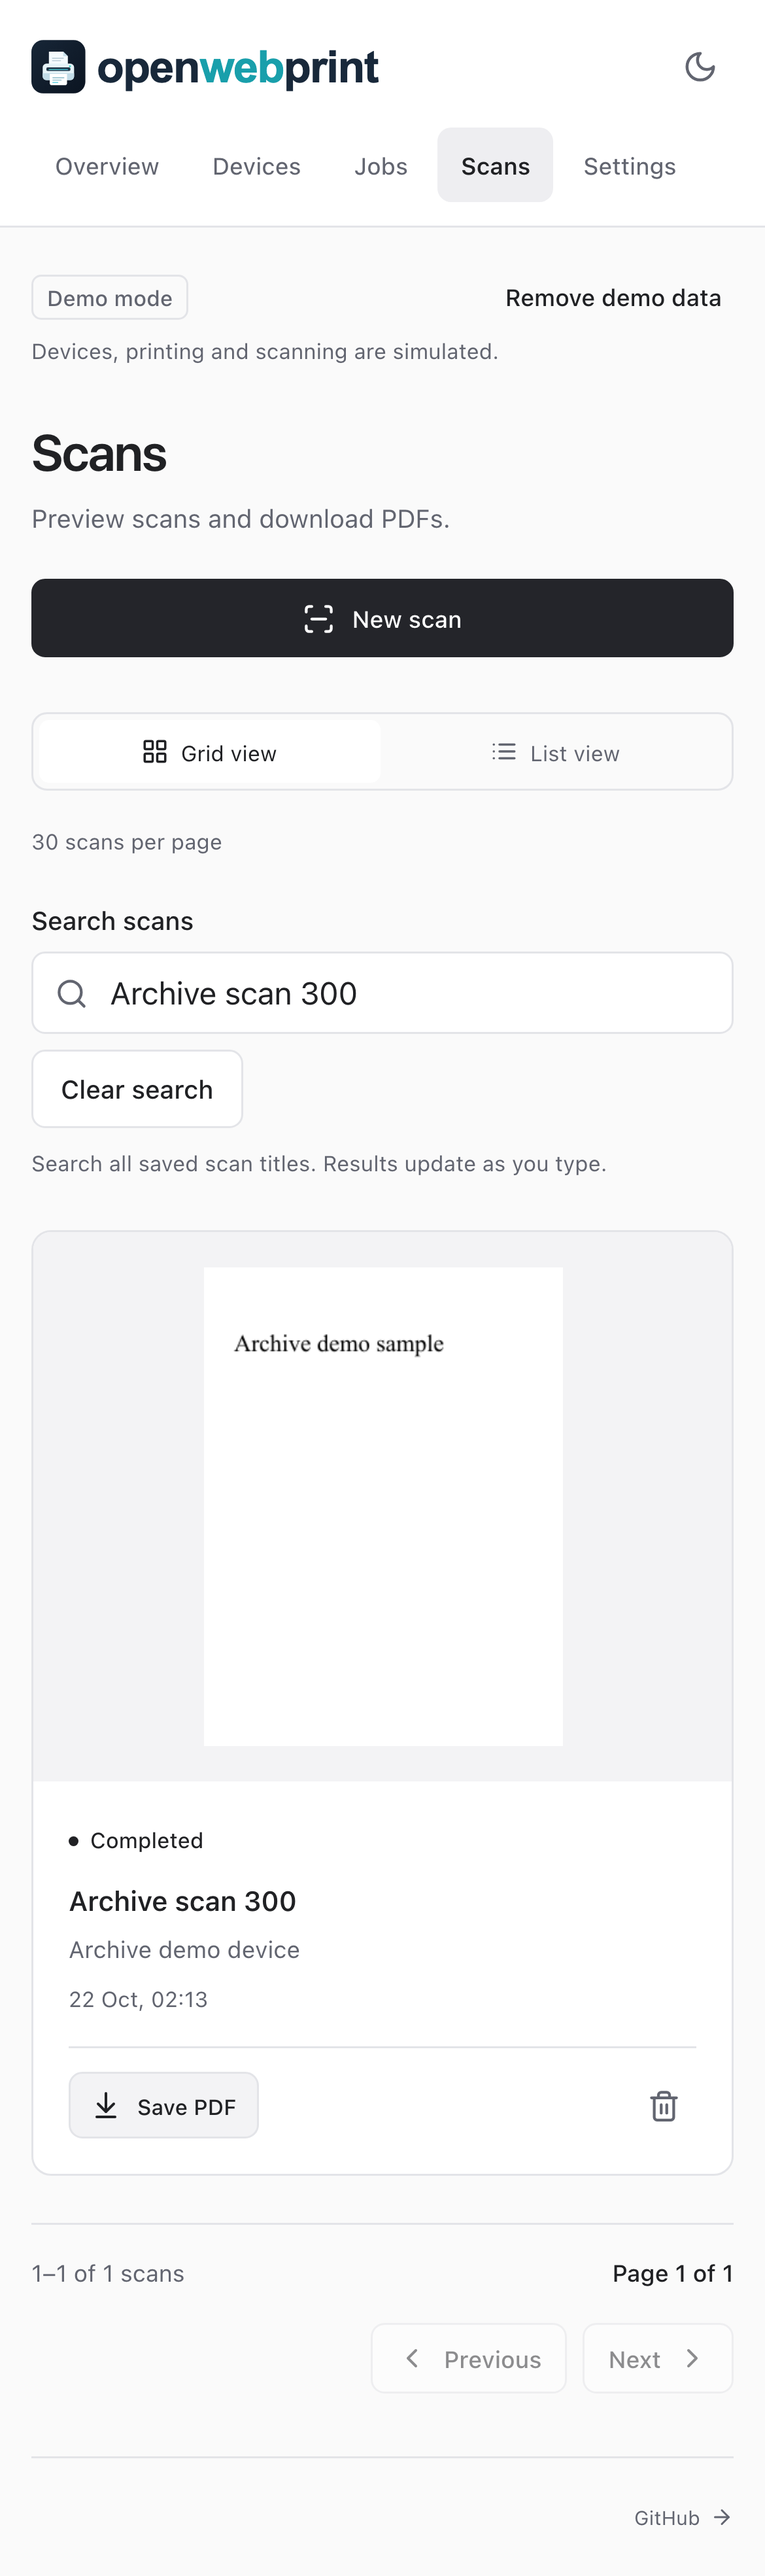
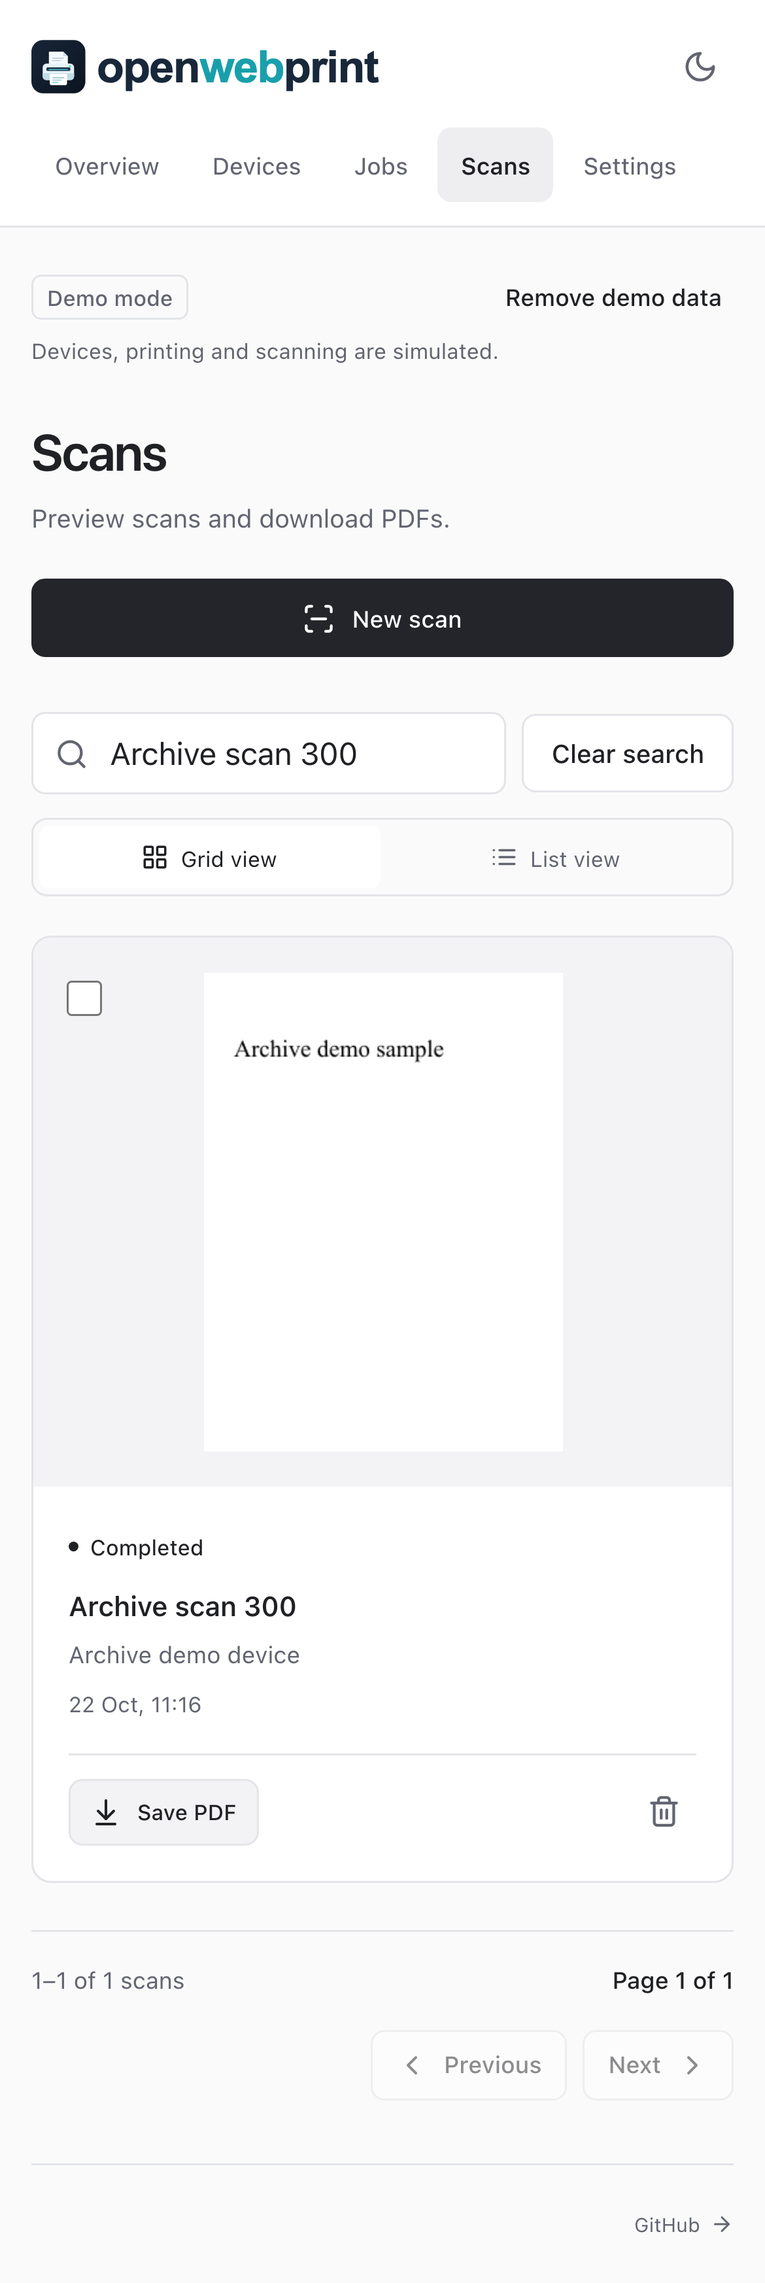
style(scans): compact search and view controls into one toolbar

diff --git a/apps/client/src/App.tsx b/apps/client/src/App.tsx
@@ -587,29 +587,31 @@ export function App() {
             )}
             {view === 'scans' && (
               <>
-                <div className={s.toolbar}>
-                  <div className={s.tabs} role="group" aria-label="Scan view">
-                    {(
-                      [
-                        ['grid', 'Grid view', LayoutGrid],
-                        ['list', 'List view', List],
-                      ] as const
-                    ).map(([layout, label, Icon]) => (
-                      <button
-                        key={layout}
-                        aria-pressed={scanLayout === layout}
-                        className={scanLayout === layout ? s.activeTab : ''}
-                        onClick={() => setScanLayout(layout)}
-                      >
-                        <Icon size={16} /> {label}
-                      </button>
-                    ))}
-                  </div>
-                  <span className={s.small}>30 scans per page</span>
-                </div>
                 <ScanExport key={snapshot?.mode}>
                   {(selectScan) => (
-                    <JobHistory kind="scan" revision={historyRevision}>
+                    <JobHistory
+                      kind="scan"
+                      revision={historyRevision}
+                      viewControls={
+                        <div className={s.tabs} role="group" aria-label="Scan view">
+                          {(
+                            [
+                              ['grid', 'Grid view', LayoutGrid],
+                              ['list', 'List view', List],
+                            ] as const
+                          ).map(([layout, label, Icon]) => (
+                            <button
+                              key={layout}
+                              aria-pressed={scanLayout === layout}
+                              className={scanLayout === layout ? s.activeTab : ''}
+                              onClick={() => setScanLayout(layout)}
+                            >
+                              <Icon size={16} /> {label}
+                            </button>
+                          ))}
+                        </div>
+                      }
+                    >
                       {(scans) => (
                         <>
                           {scans.length && scanLayout === 'list' ? (

diff --git a/apps/client/src/JobHistory.tsx b/apps/client/src/JobHistory.tsx
@@ -9,11 +9,13 @@ export function JobHistory({
   kind,
   filter = 'all',
   revision,
+  viewControls,
   children,
 }: {
   kind?: Job['kind'];
   filter?: JobFilter;
   revision: number;
+  viewControls?: ReactNode;
   children: (jobs: Job[]) => ReactNode;
 }) {
   const [cursors, setCursors] = useState<(string | undefined)[]>([undefined]);
@@ -76,8 +78,10 @@ export function JobHistory({
   return (
     <>
       {kind === 'scan' && (
-        <div className={s.historySearch}>
-          <label htmlFor="scan-history-search">Search scans</label>
+        <div className={s.historyToolbar}>
+          <label className={s.srOnly} htmlFor="scan-history-search">
+            Search scans
+          </label>
           <div className={s.historySearchControls}>
             <div className={s.search}>
               <Search size={17} aria-hidden="true" />
@@ -86,7 +90,6 @@ export function JobHistory({
                 ref={searchInput}
                 type="search"
                 placeholder="Search scan titles…"
-                aria-describedby="scan-history-search-help"
                 maxLength={200}
                 value={search}
                 onChange={(event) => {
@@ -109,9 +112,7 @@ export function JobHistory({
               </button>
             )}
           </div>
-          <p id="scan-history-search-help" className={s.small}>
-            Search all saved scan titles. Results update as you type.
-          </p>
+          {viewControls}
         </div>
       )}
       {error && (

diff --git a/apps/client/src/App.module.css b/apps/client/src/App.module.css
@@ -1884,21 +1884,30 @@
   cursor: grab;
   user-select: none;
 }
-.historySearch {
-  margin-bottom: 24px;
+.historyToolbar {
+  display: flex;
+  align-items: center;
+  justify-content: space-between;
+  flex-wrap: wrap;
+  gap: 12px 16px;
+  margin-bottom: 20px;
 }
 .historySearchControls {
   display: flex;
-  flex-wrap: wrap;
+  flex: 1 1 260px;
   align-items: center;
   gap: 8px;
-  margin-top: 8px;
+  min-width: 0;
+  max-width: 550px;
+  margin-right: auto;
 }
 .historySearchControls .search {
-  max-width: 440px;
+  flex: 1;
+  min-width: 0;
+  max-width: none;
 }
-.historySearch p {
-  margin: 8px 0 0;
+.historySearchControls button {
+  flex-shrink: 0;
 }
 .pagination {
   display: flex;
